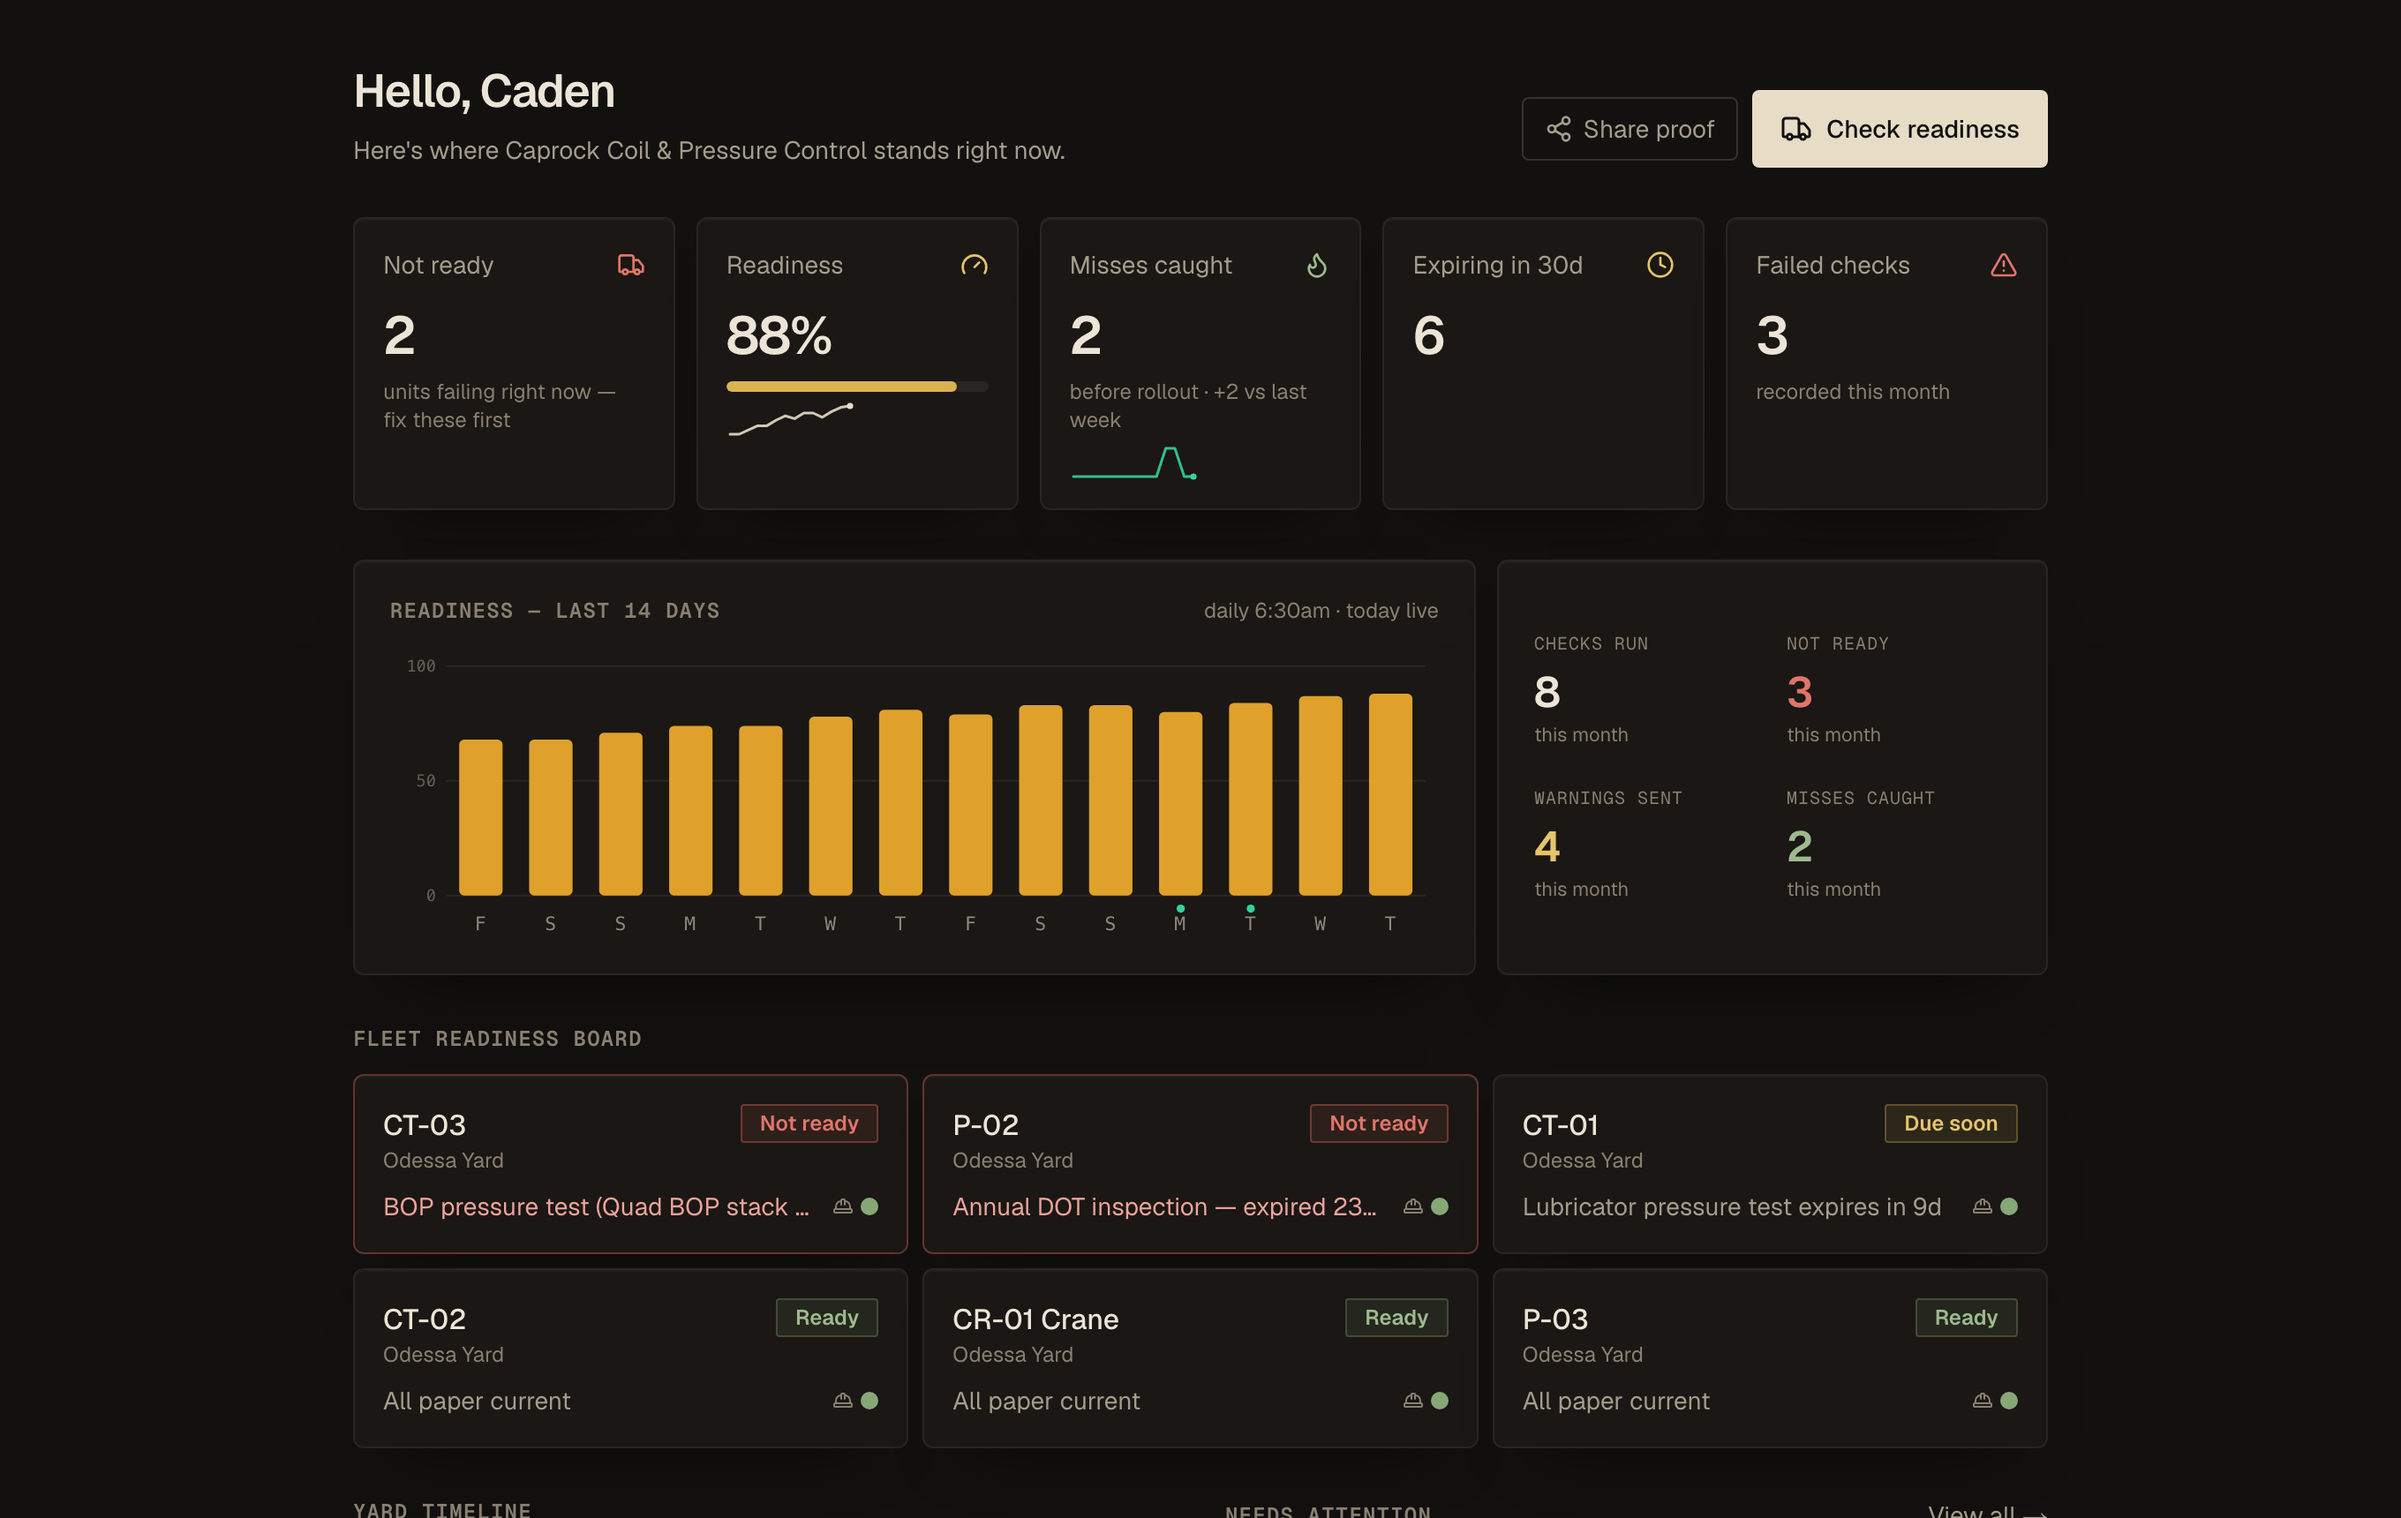
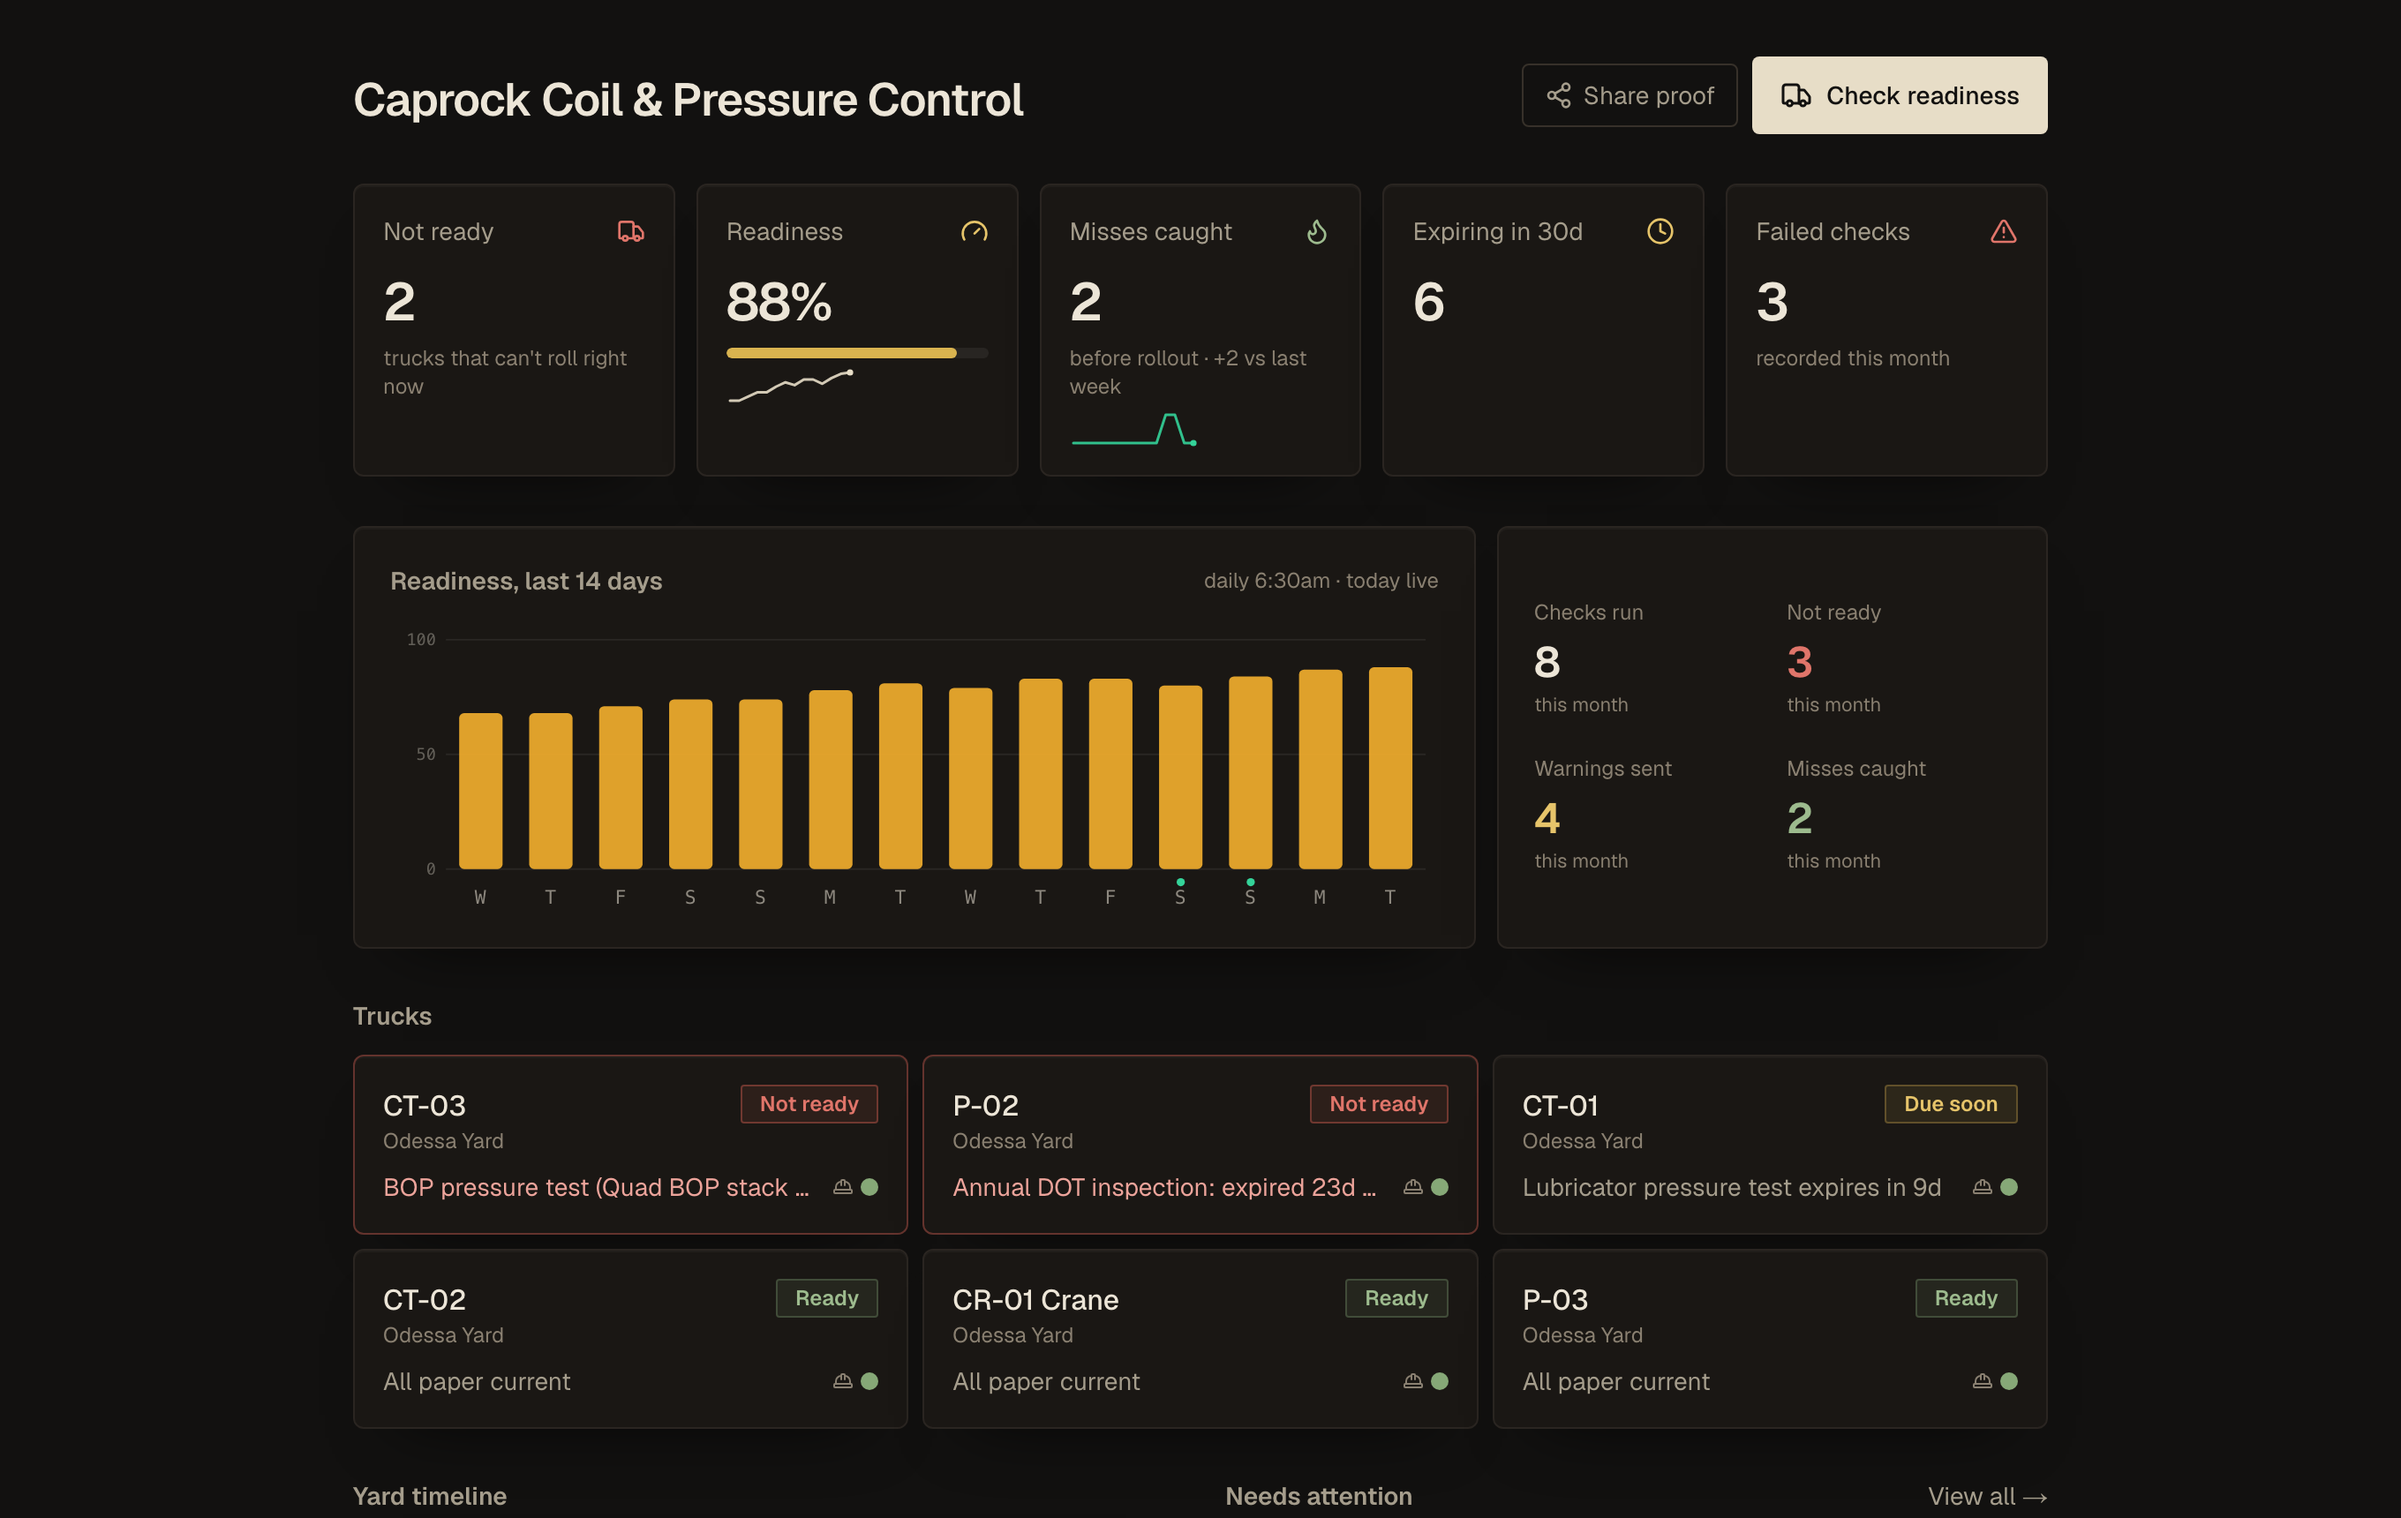
polish: retake homepage screenshots; bigger filter buttons on phones
Hero screenshots retaken from /shot so they show the plain dashboard
header. Compliance filter chips are 40px tall on phones (were ~26px),
back to compact from 640px up.

diff --git a/app/app/compliance/compliance-table.tsx b/app/app/compliance/compliance-table.tsx
@@ -61,7 +61,7 @@ export default function ComplianceTable({ items }: { items: CompItem[] }) {
   }, [items, status, kind, customer, sort]);
 
   const chip = (active: boolean) =>
-    cn("rounded-sm border px-2.5 py-1 text-xs font-medium transition-colors",
+    cn("inline-flex min-h-10 items-center rounded-md border px-3 text-sm font-medium transition-colors sm:min-h-8 sm:px-2.5 sm:text-xs",
       active ? "border-bone/60 bg-bone/10 text-bone" : "border-line-2 text-ink-dim hover:text-ink");
 
   return (
